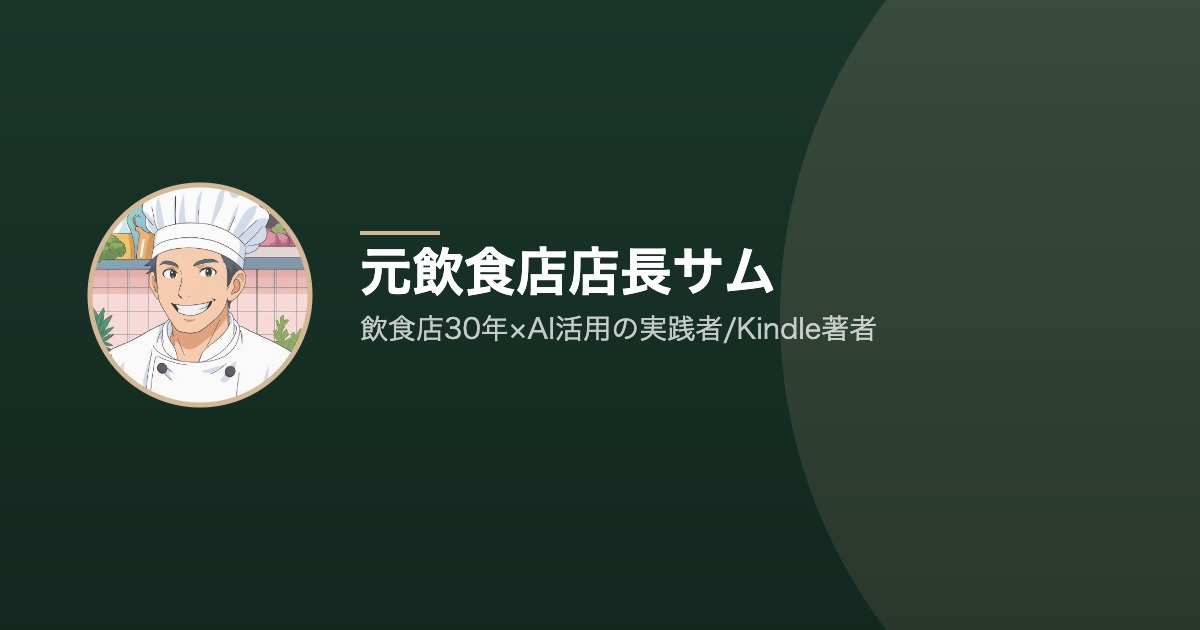
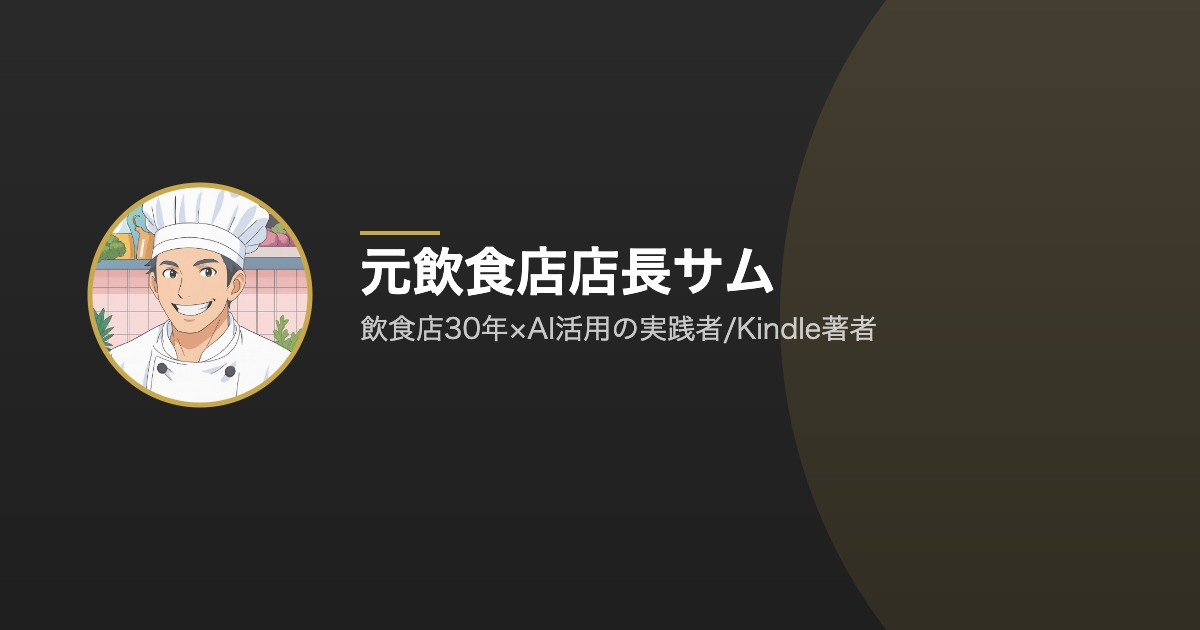
Add files via upload

diff --git a/profile.html b/profile.html
@@ -9,9 +9,9 @@
 <style>
 *{box-sizing:border-box;margin:0;padding:0;}
 body{font-family:'Noto Sans JP',sans-serif;background:#f4f4f4;color:#1a1a1a;min-height:100vh;}
-.hero{background:#1c3a2e;padding:40px 20px 20px;text-align:center;position:relative;}
-.hero::after{content:'';display:block;height:40px;background:linear-gradient(180deg,#1c3a2e,transparent);position:absolute;bottom:-40px;left:0;right:0;}
-.avatar{width:88px;height:88px;border-radius:50%;object-fit:cover;border:3px solid #d4b896;box-shadow:0 2px 12px rgba(0,0,0,.2);margin-bottom:14px;}
+.hero{background:#2d2d2d;padding:40px 20px 20px;text-align:center;position:relative;}
+.hero::after{content:'';display:block;height:40px;background:linear-gradient(180deg,#2d2d2d,transparent);position:absolute;bottom:-40px;left:0;right:0;}
+.avatar{width:88px;height:88px;border-radius:50%;object-fit:cover;border:3px solid #c9a84c;box-shadow:0 2px 12px rgba(0,0,0,.2);margin-bottom:14px;}
 .logo{max-height:32px;max-width:110px;object-fit:contain;margin-bottom:10px;}
 .name{font-size:22px;font-weight:700;color:#ffffff;margin-bottom:4px;text-shadow:0 1px 4px rgba(0,0,0,.4);}
 .name-en{font-size:12px;color:rgba(255,255,255,.72);margin-bottom:2px;}
@@ -19,7 +19,7 @@ body{font-family:'Noto Sans JP',sans-serif;background:#f4f4f4;color:#1a1a1a;min-
 .company{font-size:12px;color:rgba(255,255,255,.62);}
 .content{max-width:520px;margin:60px auto 0;padding:0 16px 60px;}
 .prof-section{background:#fff;border-radius:12px;padding:20px;margin-bottom:16px;box-shadow:0 1px 8px rgba(0,0,0,.07);}
-.prof-section-title{font-size:13px;font-weight:700;color:#1c3a2e;letter-spacing:.08em;margin-bottom:14px;padding-bottom:8px;border-bottom:2px solid #d4b896;}
+.prof-section-title{font-size:13px;font-weight:700;color:#2d2d2d;letter-spacing:.08em;margin-bottom:14px;padding-bottom:8px;border-bottom:2px solid #c9a84c;}
 .link-btn{display:block;padding:12px 20px;background:#f0f0f0;color:#1a1a1a;border-radius:10px;text-decoration:none;font-size:14px;font-weight:500;margin-bottom:10px;text-align:center;transition:.15s;}
 .link-btn:hover{transform:translateY(-1px);box-shadow:0 2px 8px rgba(0,0,0,.1);}
 .sns-grid{display:grid;grid-template-columns:1fr 1fr;gap:10px;}
@@ -27,11 +27,11 @@ body{font-family:'Noto Sans JP',sans-serif;background:#f4f4f4;color:#1a1a1a;min-
 .sns-btn:hover{transform:translateY(-1px);}
 .sns-icon{font-size:18px;}
 .contact-row{display:flex;gap:12px;margin-bottom:10px;align-items:center;flex-wrap:wrap;}
-.contact-label{font-size:12px;font-weight:700;color:#1c3a2e;min-width:50px;}
+.contact-label{font-size:12px;font-weight:700;color:#2d2d2d;min-width:50px;}
 .contact-val{font-size:13px;color:#1a1a1a;word-break:break-all;}
-a.contact-val{color:#1c3a2e;}
+a.contact-val{color:#2d2d2d;}
 .info-row{display:flex;gap:12px;margin-bottom:10px;flex-wrap:wrap;align-items:center;}
-.info-label{font-size:12px;font-weight:700;color:#1c3a2e;min-width:70px;}
+.info-label{font-size:12px;font-weight:700;color:#2d2d2d;min-width:70px;}
 .biz-desc{font-size:13px;line-height:1.8;margin-bottom:12px;color:#444;}
 .svc-list{padding-left:20px;margin-bottom:12px;}
 .svc-list li{font-size:13px;line-height:1.8;color:#444;}
@@ -39,19 +39,19 @@ a.contact-val{color:#1c3a2e;}
 .banner-cap{font-size:12px;color:#666;margin-top:6px;text-align:center;}
 .contact-form input,.contact-form textarea{width:100%;padding:10px 14px;border:1px solid #ddd;border-radius:8px;font-family:'Noto Sans JP',sans-serif;font-size:13px;margin-top:4px;}
 .form-fld{margin-bottom:12px;}
-.form-fld label{font-size:12px;font-weight:700;color:#1c3a2e;}
-.form-submit{width:100%;padding:13px;background:#1c3a2e;color:#ffffff;font-size:14px;font-weight:700;border:none;border-radius:10px;cursor:pointer;margin-top:8px;}
-.back-btn{display:block;text-align:center;padding:14px;background:#1c3a2e;color:#ffffff;border-radius:10px;font-size:14px;font-weight:700;text-decoration:none;margin-bottom:16px;}
+.form-fld label{font-size:12px;font-weight:700;color:#2d2d2d;}
+.form-submit{width:100%;padding:13px;background:#2d2d2d;color:#ffffff;font-size:14px;font-weight:700;border:none;border-radius:10px;cursor:pointer;margin-top:8px;}
+.back-btn{display:block;text-align:center;padding:14px;background:#2d2d2d;color:#ffffff;border-radius:10px;font-size:14px;font-weight:700;text-decoration:none;margin-bottom:16px;}
 .copy-url-area{background:#f8f8f8;border-radius:10px;padding:14px;text-align:center;}
-.copy-url-btn{padding:10px 20px;background:#d4b896;color:#1c3a2e;border:none;border-radius:8px;font-size:13px;font-weight:700;cursor:pointer;}
+.copy-url-btn{padding:10px 20px;background:#c9a84c;color:#2d2d2d;border:none;border-radius:8px;font-size:13px;font-weight:700;cursor:pointer;}
 .copy-msg{font-size:12px;color:#666;margin-top:6px;height:16px;}
 .bookmark-note{font-size:11px;color:#888;text-align:center;margin-top:8px;}
 .home-add-area{background:#fff;border-radius:12px;padding:20px;margin-bottom:16px;box-shadow:0 1px 8px rgba(0,0,0,.07);}
-.home-add-title{font-size:13px;font-weight:700;color:#1c3a2e;letter-spacing:.08em;margin-bottom:12px;padding-bottom:8px;border-bottom:2px solid #d4b896;}
+.home-add-title{font-size:13px;font-weight:700;color:#2d2d2d;letter-spacing:.08em;margin-bottom:12px;padding-bottom:8px;border-bottom:2px solid #c9a84c;}
 .home-add-step{display:flex;gap:10px;align-items:flex-start;margin-bottom:10px;}
-.home-add-num{background:#1c3a2e;color:#ffffff;font-size:11px;font-weight:700;width:22px;height:22px;border-radius:50%;display:flex;align-items:center;justify-content:center;flex-shrink:0;margin-top:1px;}
+.home-add-num{background:#2d2d2d;color:#ffffff;font-size:11px;font-weight:700;width:22px;height:22px;border-radius:50%;display:flex;align-items:center;justify-content:center;flex-shrink:0;margin-top:1px;}
 .home-add-body{flex:1;}
-.home-add-os{font-size:11px;font-weight:700;color:#1c3a2e;margin-bottom:2px;}
+.home-add-os{font-size:11px;font-weight:700;color:#2d2d2d;margin-bottom:2px;}
 .home-add-desc{font-size:12px;color:#555;line-height:1.7;}
 .home-add-note{font-size:11px;color:#888;margin-top:10px;padding-top:10px;border-top:1px solid #eee;text-align:center;line-height:1.6;}
 </style>
@@ -69,30 +69,30 @@ a.contact-val{color:#1c3a2e;}
 </div>
 <div class="content">
   <div style="max-width:520px;margin:0 auto;padding:20px 16px 0;">
-<div data-from="2026-06-26" data-to="2026-07-02" style="background:#fff;border-left:4px solid #d4b896;border-radius:0 10px 10px 0;padding:14px 16px;margin-bottom:12px;box-shadow:0 1px 6px rgba(0,0,0,.08);">
+<div data-from="2026-06-26" data-to="2026-07-02" style="background:#fff;border-left:4px solid #c9a84c;border-radius:0 10px 10px 0;padding:14px 16px;margin-bottom:12px;box-shadow:0 1px 6px rgba(0,0,0,.08);">
   <div style="display:flex;align-items:center;gap:8px;margin-bottom:6px;">
-    <span style="background:#1c3a2e;color:#fff;font-size:10px;font-weight:700;padding:2px 10px;border-radius:10px;letter-spacing:.06em;">期間限定</span>
+    <span style="background:#2d2d2d;color:#fff;font-size:10px;font-weight:700;padding:2px 10px;border-radius:10px;letter-spacing:.06em;">期間限定</span>
     <span style="font-size:11px;color:#888;">2026-06-26 〜 2026-07-02</span>
   </div>
   <img src="images/announce1.png" alt="" style="width:100%;border-radius:6px;margin-bottom:10px;display:block;">
   <p style="font-size:13px;color:#333;line-height:1.7;margin:0 0 8px;">Kindle本無料キャンペーン実施中！6/27~7/1まで！</p>
-  <a href="https://amzn.asia/d/07wG3jzs" target="_blank" rel="noopener" style="display:inline-block;padding:7px 18px;background:#1c3a2e;color:#fff;border-radius:20px;font-size:12px;font-weight:700;text-decoration:none;">Kindle本はこちら</a>
-</div><div data-from="2026-06-26" data-to="2026-07-31" style="background:#fff;border-left:4px solid #d4b896;border-radius:0 10px 10px 0;padding:14px 16px;margin-bottom:12px;box-shadow:0 1px 6px rgba(0,0,0,.08);">
+  <a href="https://amzn.asia/d/07wG3jzs" target="_blank" rel="noopener" style="display:inline-block;padding:7px 18px;background:#2d2d2d;color:#fff;border-radius:20px;font-size:12px;font-weight:700;text-decoration:none;">Kindle本はこちら</a>
+</div><div data-from="2026-06-26" data-to="2026-07-31" style="background:#fff;border-left:4px solid #c9a84c;border-radius:0 10px 10px 0;padding:14px 16px;margin-bottom:12px;box-shadow:0 1px 6px rgba(0,0,0,.08);">
   <div style="display:flex;align-items:center;gap:8px;margin-bottom:6px;">
-    <span style="background:#1c3a2e;color:#fff;font-size:10px;font-weight:700;padding:2px 10px;border-radius:10px;letter-spacing:.06em;">お知らせ</span>
+    <span style="background:#2d2d2d;color:#fff;font-size:10px;font-weight:700;padding:2px 10px;border-radius:10px;letter-spacing:.06em;">お知らせ</span>
     <span style="font-size:11px;color:#888;">2026-06-26 〜 2026-07-31</span>
   </div>
   
   <p style="font-size:13px;color:#333;line-height:1.7;margin:0 0 8px;">名刺ツールβ版プレゼント！PCで操作してください！</p>
-  <a href="https://jundy5104.github.io/name/digital-card-tool.html" target="_blank" rel="noopener" style="display:inline-block;padding:7px 18px;background:#1c3a2e;color:#fff;border-radius:20px;font-size:12px;font-weight:700;text-decoration:none;">ツールはこちらから！</a>
-</div><div data-from="2026-06-26" data-to="2026-07-31" style="background:#fff;border-left:4px solid #d4b896;border-radius:0 10px 10px 0;padding:14px 16px;margin-bottom:12px;box-shadow:0 1px 6px rgba(0,0,0,.08);">
+  <a href="https://jundy5104.github.io/name/digital-card-tool.html" target="_blank" rel="noopener" style="display:inline-block;padding:7px 18px;background:#2d2d2d;color:#fff;border-radius:20px;font-size:12px;font-weight:700;text-decoration:none;">ツールはこちらから！</a>
+</div><div data-from="2026-06-26" data-to="2026-07-31" style="background:#fff;border-left:4px solid #c9a84c;border-radius:0 10px 10px 0;padding:14px 16px;margin-bottom:12px;box-shadow:0 1px 6px rgba(0,0,0,.08);">
   <div style="display:flex;align-items:center;gap:8px;margin-bottom:6px;">
-    <span style="background:#1c3a2e;color:#fff;font-size:10px;font-weight:700;padding:2px 10px;border-radius:10px;letter-spacing:.06em;">お知らせ</span>
+    <span style="background:#2d2d2d;color:#fff;font-size:10px;font-weight:700;padding:2px 10px;border-radius:10px;letter-spacing:.06em;">お知らせ</span>
     <span style="font-size:11px;color:#888;">2026-06-26 〜 2026-07-31</span>
   </div>
   
   <p style="font-size:13px;color:#333;line-height:1.7;margin:0 0 8px;">名刺ツールβ版マニュアル</p>
-  <a href="https://jundy5104.github.io/name/digital-card-manual.html" target="_blank" rel="noopener" style="display:inline-block;padding:7px 18px;background:#1c3a2e;color:#fff;border-radius:20px;font-size:12px;font-weight:700;text-decoration:none;">マニュアルはこちら</a>
+  <a href="https://jundy5104.github.io/name/digital-card-manual.html" target="_blank" rel="noopener" style="display:inline-block;padding:7px 18px;background:#2d2d2d;color:#fff;border-radius:20px;font-size:12px;font-weight:700;text-decoration:none;">マニュアルはこちら</a>
 </div>
 </div>
   <a href="landing.html" class="back-btn" style="margin-top:8px">名刺ページへ戻る</a>

diff --git a/landing.html b/landing.html
@@ -19,25 +19,25 @@
 *{box-sizing:border-box;margin:0;padding:0;}
 html,body{height:100%;font-family:'Noto Sans JP',sans-serif;}
 body{display:flex;align-items:flex-start;justify-content:center;min-height:100vh;background:#d8d8d8;padding:40px 20px;}
-.card{width:100%;max-width:400px;min-height:560px;background:#1c3a2e;border-radius:20px;box-shadow:0 8px 40px rgba(0,0,0,.25);padding:48px 32px 36px;display:flex;flex-direction:column;align-items:center;position:relative;overflow:visible;}
+.card{width:100%;max-width:400px;min-height:560px;background:#2d2d2d;border-radius:20px;box-shadow:0 8px 40px rgba(0,0,0,.25);padding:48px 32px 36px;display:flex;flex-direction:column;align-items:center;position:relative;overflow:visible;}
 .card::before{content:'';position:absolute;inset:0;background:linear-gradient(180deg,rgba(0,0,0,.10) 0%,rgba(0,0,0,.28) 100%);pointer-events:none;}
 .inner{position:relative;z-index:1;display:flex;flex-direction:column;align-items:center;width:100%;gap:0;}
-.avatar{width:100px;height:100px;border-radius:50%;object-fit:cover;border:3px solid #d4b896;box-shadow:0 2px 16px rgba(0,0,0,.25);margin-bottom:16px;}
+.avatar{width:100px;height:100px;border-radius:50%;object-fit:cover;border:3px solid #c9a84c;box-shadow:0 2px 16px rgba(0,0,0,.25);margin-bottom:16px;}
 .logo{max-height:36px;max-width:120px;object-fit:contain;margin-bottom:12px;}
 .name{font-size:26px;font-weight:700;color:#ffffff;letter-spacing:.06em;text-align:center;text-shadow:0 1px 6px rgba(0,0,0,.5);margin-bottom:4px;}
 .tagline{font-size:13px;color:rgba(255,255,255,.75);letter-spacing:.06em;text-align:center;margin-bottom:16px;}
 .company{font-size:12px;color:rgba(255,255,255,.55);margin-bottom:20px;}
-.divider{width:60px;height:1px;background:#d4b896;margin:0 auto 24px;opacity:.8;}
-.btn{display:block;width:100%;max-width:260px;padding:14px 24px;background:#d4b896;color:#1a1a1a;font-size:15px;font-weight:700;border-radius:40px;text-align:center;text-decoration:none;letter-spacing:.06em;margin:0 auto 12px;transition:.2s;border:none;cursor:pointer;font-family:'Noto Sans JP',sans-serif;}
+.divider{width:60px;height:1px;background:#c9a84c;margin:0 auto 24px;opacity:.8;}
+.btn{display:block;width:100%;max-width:260px;padding:14px 24px;background:#c9a84c;color:#1a1a1a;font-size:15px;font-weight:700;border-radius:40px;text-align:center;text-decoration:none;letter-spacing:.06em;margin:0 auto 12px;transition:.2s;border:none;cursor:pointer;font-family:'Noto Sans JP',sans-serif;}
 .btn:hover{opacity:.85;transform:translateY(-1px);}
-.btn-outline{background:transparent;border:2px solid #d4b896;color:#d4b896;background:transparent;}
+.btn-outline{background:transparent;border:2px solid #c9a84c;color:#c9a84c;background:transparent;}
 .copy-msg{font-size:11px;color:rgba(255,255,255,.7);text-align:center;margin-top:8px;height:16px;}
 .bookmark-note{font-size:11px;color:rgba(255,255,255,.55);text-align:center;margin-top:16px;line-height:1.6;}
 .home-guide{margin-top:16px;background:rgba(255,255,255,.10);border-radius:10px;padding:12px 16px;width:100%;max-width:280px;text-align:left;}
 .home-guide-title{font-size:11px;font-weight:700;color:rgba(255,255,255,.9);margin-bottom:8px;text-align:center;letter-spacing:.06em;}
 .home-guide-step{font-size:11px;color:rgba(255,255,255,.75);line-height:1.6;margin-bottom:4px;display:flex;gap:6px;align-items:baseline;}
-.home-guide-os{font-weight:700;color:#d4b896;min-width:64px;flex-shrink:0;}
-@media(max-width:450px){body{background:#1c3a2e;padding:0;}.card{border-radius:0;min-height:100vh;max-width:100%;box-shadow:none;}}
+.home-guide-os{font-weight:700;color:#c9a84c;min-width:64px;flex-shrink:0;}
+@media(max-width:450px){body{background:#2d2d2d;padding:0;}.card{border-radius:0;min-height:100vh;max-width:100%;box-shadow:none;}}
 </style>
 </head>
 <body>
@@ -51,15 +51,15 @@ body{display:flex;align-items:flex-start;justify-content:center;min-height:100vh
     <div class="divider"></div>
     <div style="width:100%;max-width:320px;margin:12px auto 0;">
 <div data-from="2026-06-26" data-to="2026-07-02" style="background:rgba(255,255,255,.10);border-radius:10px;padding:10px 14px;margin-bottom:8px;text-align:center;">
-  <span style="display:inline-block;background:#d4b896;color:#1a1a1a;font-size:10px;font-weight:700;padding:2px 8px;border-radius:10px;margin-bottom:5px;letter-spacing:.06em;">期間限定</span>
+  <span style="display:inline-block;background:#c9a84c;color:#1a1a1a;font-size:10px;font-weight:700;padding:2px 8px;border-radius:10px;margin-bottom:5px;letter-spacing:.06em;">期間限定</span>
   <span style="display:block;font-size:12px;color:#fff;line-height:1.6;">Kindle本無料キャンペーン実施中！6/27~7/1まで！</span>
   <a href="https://amzn.asia/d/07wG3jzs" target="_blank" rel="noopener" style="display:inline-block;margin-top:6px;padding:5px 14px;background:rgba(255,255,255,.2);color:#fff;border-radius:20px;font-size:11px;font-weight:700;text-decoration:none;">Kindle本はこちら</a>
 </div><div data-from="2026-06-26" data-to="2026-07-31" style="background:rgba(255,255,255,.10);border-radius:10px;padding:10px 14px;margin-bottom:8px;text-align:center;">
-  <span style="display:inline-block;background:#d4b896;color:#1a1a1a;font-size:10px;font-weight:700;padding:2px 8px;border-radius:10px;margin-bottom:5px;letter-spacing:.06em;">お知らせ</span>
+  <span style="display:inline-block;background:#c9a84c;color:#1a1a1a;font-size:10px;font-weight:700;padding:2px 8px;border-radius:10px;margin-bottom:5px;letter-spacing:.06em;">お知らせ</span>
   <span style="display:block;font-size:12px;color:#fff;line-height:1.6;">名刺ツールβ版プレゼント！PCで操作してください！</span>
   <a href="https://jundy5104.github.io/name/digital-card-tool.html" target="_blank" rel="noopener" style="display:inline-block;margin-top:6px;padding:5px 14px;background:rgba(255,255,255,.2);color:#fff;border-radius:20px;font-size:11px;font-weight:700;text-decoration:none;">ツールはこちらから！</a>
 </div><div data-from="2026-06-26" data-to="2026-07-31" style="background:rgba(255,255,255,.10);border-radius:10px;padding:10px 14px;margin-bottom:8px;text-align:center;">
-  <span style="display:inline-block;background:#d4b896;color:#1a1a1a;font-size:10px;font-weight:700;padding:2px 8px;border-radius:10px;margin-bottom:5px;letter-spacing:.06em;">お知らせ</span>
+  <span style="display:inline-block;background:#c9a84c;color:#1a1a1a;font-size:10px;font-weight:700;padding:2px 8px;border-radius:10px;margin-bottom:5px;letter-spacing:.06em;">お知らせ</span>
   <span style="display:block;font-size:12px;color:#fff;line-height:1.6;">名刺ツールβ版マニュアル</span>
   <a href="https://jundy5104.github.io/name/digital-card-manual.html" target="_blank" rel="noopener" style="display:inline-block;margin-top:6px;padding:5px 14px;background:rgba(255,255,255,.2);color:#fff;border-radius:20px;font-size:11px;font-weight:700;text-decoration:none;">マニュアルはこちら</a>
 </div>

diff --git a/card.html b/card.html
@@ -24,21 +24,21 @@
 *{box-sizing:border-box;margin:0;padding:0;}
 html,body{height:100%;font-family:'Noto Sans JP',sans-serif;}
 body{display:flex;align-items:flex-start;justify-content:center;min-height:100vh;background:#d8d8d8;padding:40px 20px;}
-.card{width:100%;max-width:400px;min-height:580px;background:#1c3a2e;border-radius:20px;box-shadow:0 8px 40px rgba(0,0,0,.25);padding:48px 32px 36px;display:flex;flex-direction:column;align-items:center;gap:0;position:relative;overflow:visible;}
+.card{width:100%;max-width:400px;min-height:580px;background:#2d2d2d;border-radius:20px;box-shadow:0 8px 40px rgba(0,0,0,.25);padding:48px 32px 36px;display:flex;flex-direction:column;align-items:center;gap:0;position:relative;overflow:visible;}
 .card::before{content:'';position:absolute;inset:0;background:linear-gradient(180deg,rgba(0,0,0,.10) 0%,rgba(0,0,0,.30) 100%);pointer-events:none;}
 .inner{position:relative;z-index:1;display:flex;flex-direction:column;align-items:center;width:100%;}
-.avatar{width:100px;height:100px;border-radius:50%;object-fit:cover;border:3px solid #d4b896;box-shadow:0 2px 16px rgba(0,0,0,.25);margin-bottom:16px;}
+.avatar{width:100px;height:100px;border-radius:50%;object-fit:cover;border:3px solid #c9a84c;box-shadow:0 2px 16px rgba(0,0,0,.25);margin-bottom:16px;}
 .logo{max-height:36px;max-width:120px;object-fit:contain;margin-bottom:12px;filter:drop-shadow(0 1px 4px rgba(0,0,0,.4));}
 .name{font-size:26px;font-weight:700;color:#ffffff;letter-spacing:.06em;text-align:center;text-shadow:0 1px 6px rgba(0,0,0,.6);margin-bottom:4px;}
 .name-en{font-size:13px;color:rgba(255,255,255,.75);letter-spacing:.1em;margin-bottom:4px;}
 .tagline{font-size:13px;color:rgba(255,255,255,.9);letter-spacing:.06em;text-align:center;margin-bottom:4px;}
 .tagline-en{font-size:11px;color:rgba(255,255,255,.65);margin-bottom:4px;}
 .company{font-size:12px;color:rgba(255,255,255,.75);margin-bottom:16px;text-align:center;}
-.divider{width:60px;height:1px;background:#d4b896;margin:0 auto 16px;opacity:.8;}
+.divider{width:60px;height:1px;background:#c9a84c;margin:0 auto 16px;opacity:.8;}
 .qr-area{display:flex;flex-direction:column;align-items:center;gap:8px;}
 .qr-area canvas,.qr-area img{border-radius:8px;border:3px solid #ffffff;}
 .qr-label{font-size:11px;letter-spacing:.08em;}
-@media(max-width:450px){body{background:#1c3a2e;padding:0;align-items:flex-start;}.card{border-radius:0;min-height:100vh;max-width:100%;box-shadow:none;}}
+@media(max-width:450px){body{background:#2d2d2d;padding:0;align-items:flex-start;}.card{border-radius:0;min-height:100vh;max-width:100%;box-shadow:none;}}
 </style>
 <link rel="apple-touch-icon" href="images/avatar.jpeg">
 <link rel="icon" href="images/avatar.jpeg">
@@ -58,6 +58,6 @@ body{display:flex;align-items:flex-start;justify-content:center;min-height:100vh
   </div>
 </div>
 <script src="https://cdnjs.cloudflare.com/ajax/libs/qrcodejs/1.0.0/qrcode.min.js"></script>
-    <script>window.addEventListener('load',function(){new QRCode(document.getElementById('qr'),{text:'https://jundy5104.github.io/name/landing.html',width:120,height:120,colorDark:'#1c3a2e',colorLight:'#ffffff'});});</script>
+    <script>window.addEventListener('load',function(){new QRCode(document.getElementById('qr'),{text:'https://jundy5104.github.io/name/landing.html',width:120,height:120,colorDark:'#2d2d2d',colorLight:'#ffffff'});});</script>
 </body>
 </html>